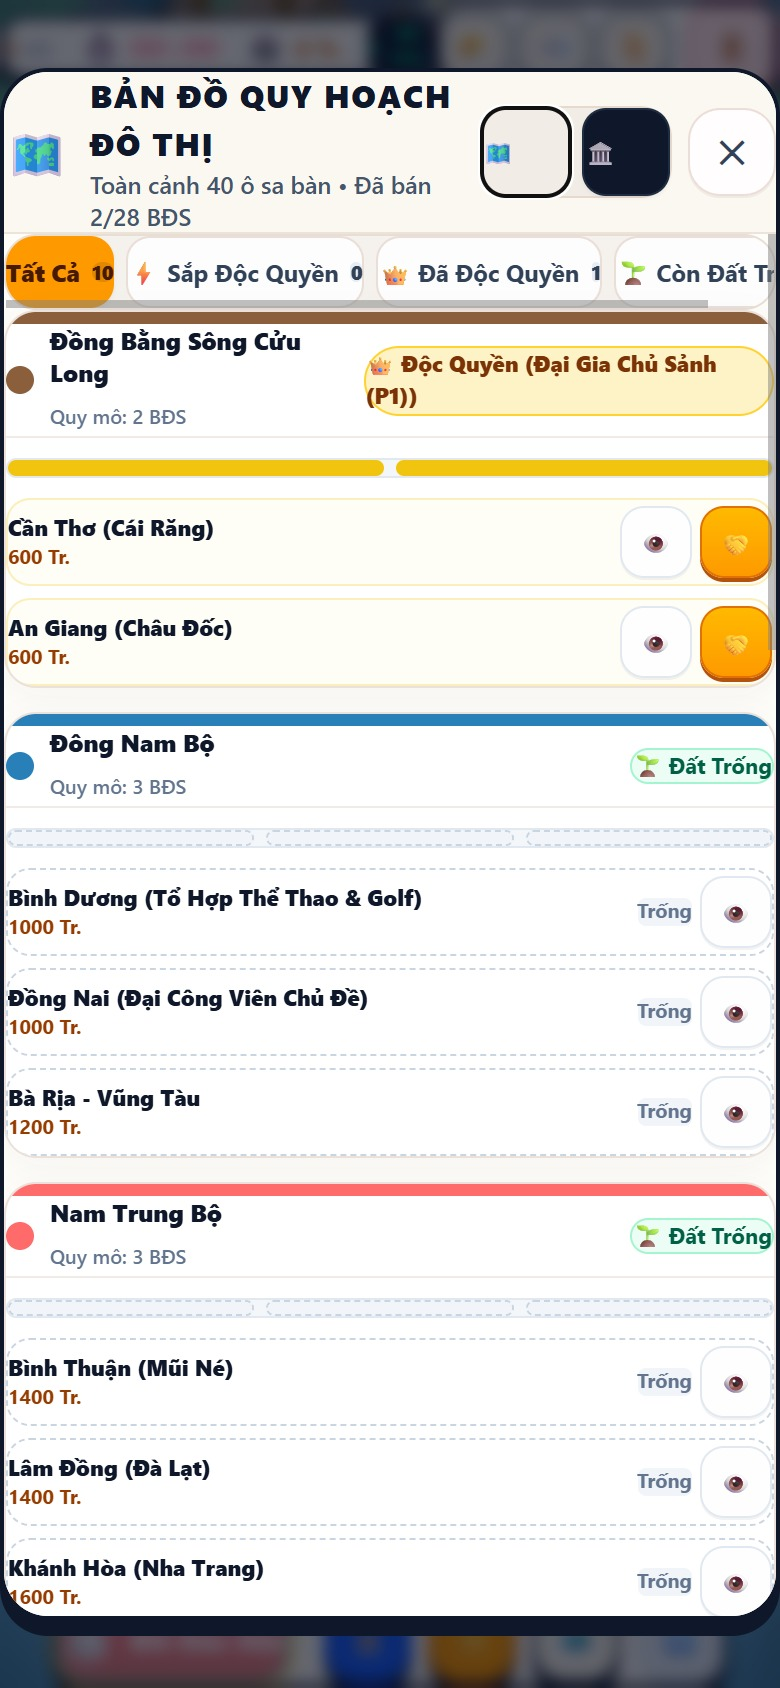
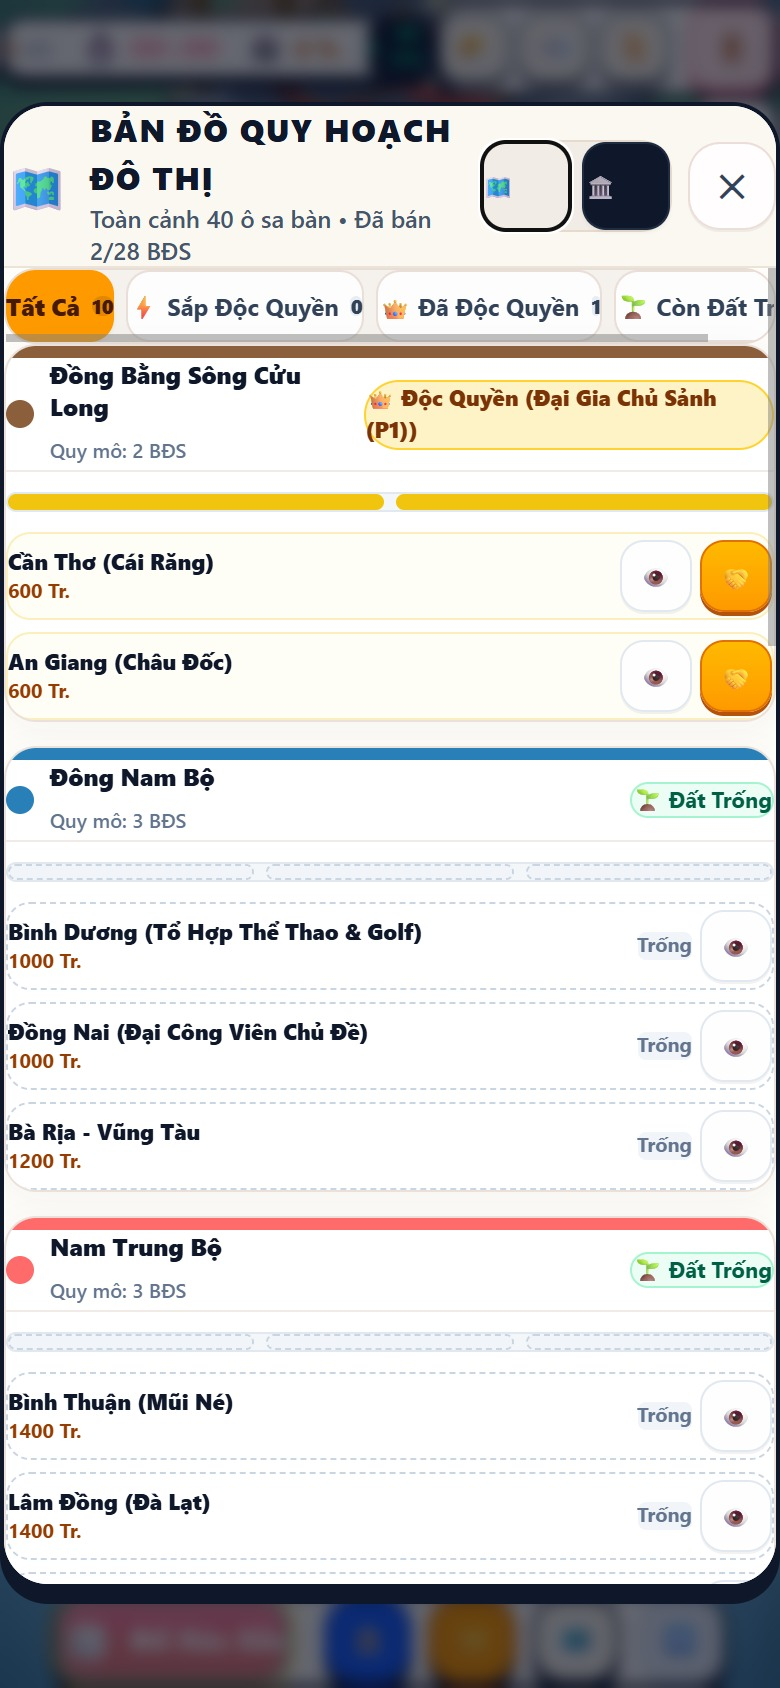
UI refine

Changed region(s): [[0.0, 0.0308, 1.0, 0.9858]]

diff --git a/src/client/ui/modals/masterplan_modal.tsx b/src/client/ui/modals/masterplan_modal.tsx
@@ -231,7 +231,7 @@ export function MasterplanModal({
       role="dialog"
       aria-label="Bản đồ quy hoạch đô thị"
       data-testid="masterplan-modal"
-      className="relative w-full max-w-4xl bg-[#FFFDF9] border-2 border-slate-900 rounded-3xl shadow-[0_8px_0_0_#0f172a] shadow-[0_8px_0_0_#0f172a,0_16px_36px_rgba(15,23,42,0.18)] max-h-[92vh] flex flex-col overflow-hidden text-slate-800 animate-in fade-in zoom-in-95 duration-200 pointer-events-auto select-none"
+      className="relative w-full max-w-4xl h-[88vh] max-h-[92vh] min-h-[520px] bg-[#FFFDF9] border-2 border-slate-900 rounded-3xl shadow-[0_8px_0_0_#0f172a] shadow-[0_8px_0_0_#0f172a,0_16px_36px_rgba(15,23,42,0.18)] flex flex-col overflow-hidden text-slate-800 animate-in fade-in zoom-in-95 duration-200 pointer-events-auto select-none"
     >
       {/* Header */}
       <header className="px-4 py-3 bg-[#FBF8F1] border-b border-amber-900/10 flex items-center justify-between shrink-0">
@@ -429,11 +429,11 @@ export function MasterplanModal({
         {/* TAB 2: 8 PHÂN KHU ĐỘC QUYỀN (DISTRICT MONOPOLY MATRIX) */}
         {/* ================================================================= */}
         {activeTab === 'districts' && (
-          <div className="flex flex-col">
+          <div className="flex flex-col min-h-full">
             {/* Filter Bar */}
             <div
               data-testid="district-filter-bar"
-              className="flex items-center gap-1.5 p-1.5 bg-amber-950/5 border border-amber-900/10 rounded-2xl mb-3 overflow-x-auto no-scrollbar"
+              className="flex items-center gap-1.5 p-1.5 bg-amber-950/5 border border-amber-900/10 rounded-2xl mb-3 overflow-x-auto no-scrollbar shrink-0"
             >
               {FILTER_OPTIONS.map((opt) => {
                 const isActive = activeFilter === opt.id;
@@ -467,7 +467,7 @@ export function MasterplanModal({
 
             <div
               data-testid="masterplan-districts-grid"
-              className="grid grid-cols-1 md:grid-cols-2 gap-3"
+              className="grid grid-cols-1 md:grid-cols-2 gap-3 flex-1"
             >
               {filteredDistricts.length > 0 ? (
                 filteredDistricts.map((district) => (

diff --git a/src/client/ui/modals/masterplan_components.tsx b/src/client/ui/modals/masterplan_components.tsx
@@ -427,7 +427,7 @@ export function MasterplanEmptyState(props: MasterplanEmptyStateProps): React.Re
   return (
     <div
       data-testid="masterplan-empty-state"
-      className="col-span-full border-2 border-dashed border-amber-900/20 bg-[#FDFBF7] rounded-3xl p-6 sm:p-8 text-center flex flex-col items-center justify-center min-h-[260px] shadow-inner"
+      className="col-span-full border-2 border-dashed border-amber-900/20 bg-[#FDFBF7] rounded-3xl p-6 sm:p-8 text-center flex flex-col items-center justify-center min-h-[260px] md:min-h-[340px] h-full shadow-inner my-auto"
     >
       <div
         className="w-16 h-16 rounded-2xl bg-amber-100/70 border border-amber-900/15 flex items-center justify-center text-3xl mb-3 shadow-xs"

diff --git a/docs/domain/gotchas.md b/docs/domain/gotchas.md
@@ -3406,3 +3406,19 @@
      - Định nghĩa chuẩn: `isMonopoly` khi `maxOwned === totalCells`; `isNearMonopoly` khi `totalCells > 1 && maxOwned === totalCells - 1 && !isMonopoly`; `hasVacant` khi `vacantCells > 0`.
      - Tái sử dụng 100% trong cả tính nhãn đếm `filterCounts` lẫn lọc hiển thị `filteredDistricts` và component `MasterplanEmptyState`.
 
+---
+
+### 202. [UI/CRAFT][MODAL] Cố Định Chiều Cao Khung Hình Modal Đa Tab & Triệt Tiêu Nhảy Giật Chiều Dọc (IMP-152 Follow-up)
+- **Bối cảnh & Bẫy thực tế**:
+  - Khi modal có nhiều tab hoặc các tab lọc có số lượng phần tử biến thiên lớn (ví dụ: Tab "Tất Cả" có 10 phân khu cao ~750px, trong khi Tab "Sắp Độc Quyền" rỗng cao ~300px), việc chỉ đặt `max-h-[92vh]` kết hợp với backdrop căn giữa `flex items-center` sẽ gây ra hiện tượng **nhảy giật chiều dọc nghiêm trọng (Vertical Layout Jitter / CLS)**.
+  - Cụ thể: Khi nội dung co ngắn lại, vị trí trọng tâm của modal bị kéo tụt xuống dưới ~200-250px; khi bấm quay lại tab nhiều nội dung, modal lại giật nảy ngược lên trên, gây mỏi mắt và cảm giác thiếu vững chắc cho người chơi.
+- **Ràng buộc cứng & Thiết kế bất biến**:
+  1. **Locked Modal Frame Budget**:
+     - Mọi modal đa tab phức tạp (`MasterplanModal`, `PropertyPortfolioModal`) bắt buộc phải khóa chiều cao cơ sở ổn định trên vỏ bọc ngoài:
+       `className="... h-[88vh] max-h-[92vh] min-h-[520px] ..."`
+     - Giúp Header, Tab Switcher, Nút Đóng và Filter Bar luôn nằm yên 100% tại tọa độ tĩnh (Stationary Shell).
+  2. **Full-Height Container & Centered Empty State**:
+     - Vùng chứa tab phải dùng `min-h-full flex flex-col` và grid `flex-1`.
+     - Khi rơi vào Empty State, thẻ trống mang `col-span-full h-full min-h-[260px] md:min-h-[340px] my-auto`, lấp đầy và căn giữa tự nhiên trong lòng khung modal tĩnh mà không làm co bóp kích thước của hộp thoại.
+
+
